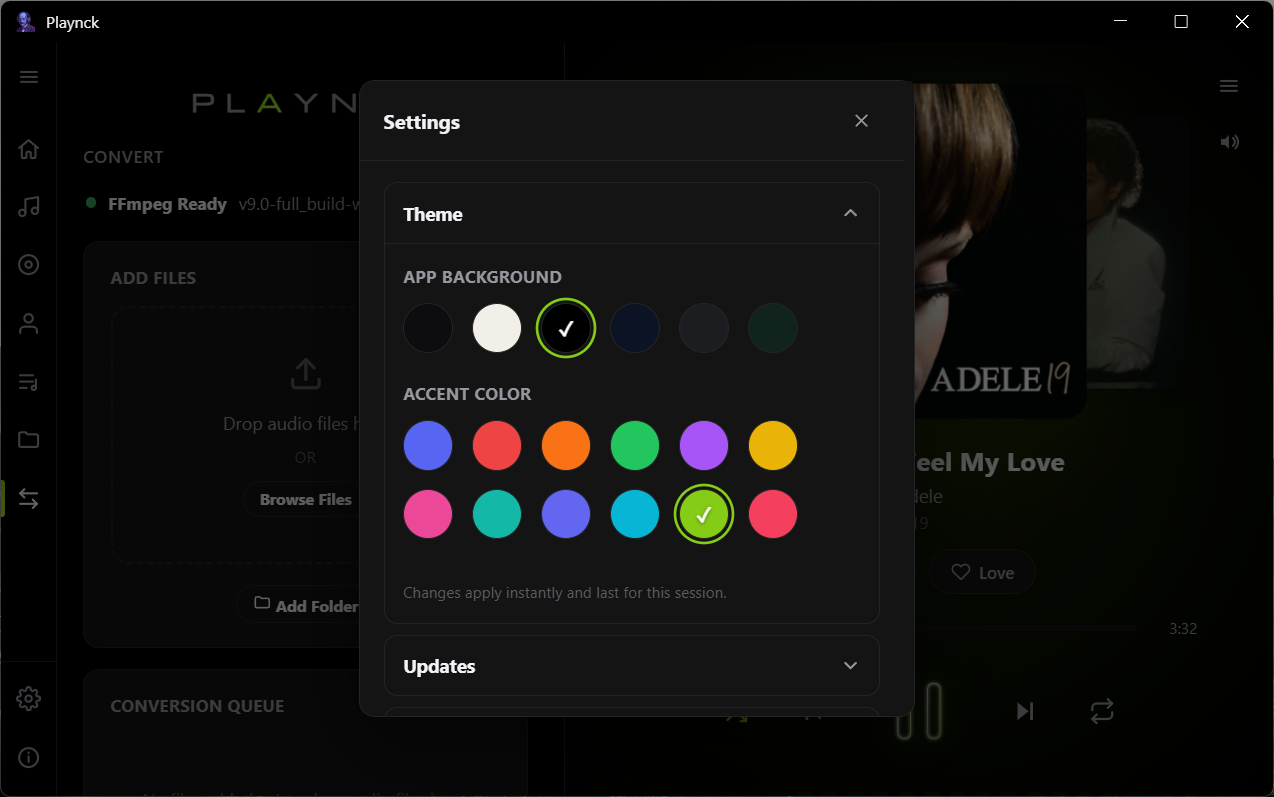
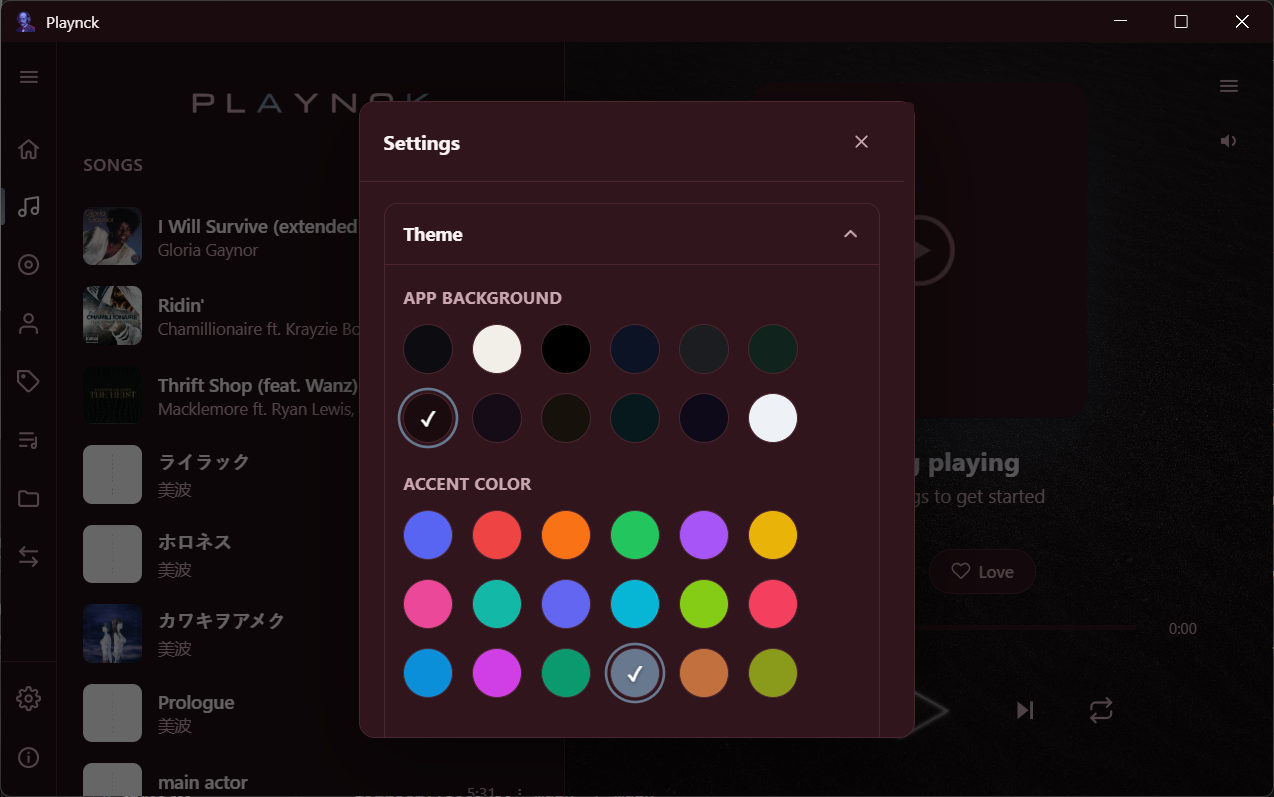
more shots

diff --git a/script/theme.js b/script/theme.js
@@ -85,6 +85,91 @@ const THEME_BG = {
       "--text-faint": "#6f8d7c",
     },
   },
+  burgundy: {
+    label: "Burgundy Wine",
+    swatch: "#190b0e",
+    vars: {
+      "--bg": "#190b0e",
+      "--panel": "#210f14",
+      "--elevated": "#30151c",
+      "--elevated-hover": "#3f1c25",
+      "--border": "#4b252f",
+      "--text": "#f9f1f3",
+      "--text-dim": "#c9a6af",
+      "--text-faint": "#90646f",
+    },
+  },
+  plum: {
+    label: "Plum Violet",
+    swatch: "#150c17",
+    vars: {
+      "--bg": "#150c17",
+      "--panel": "#1c111f",
+      "--elevated": "#28182d",
+      "--elevated-hover": "#35203c",
+      "--border": "#402947",
+      "--text": "#f6f2f8",
+      "--text-dim": "#c1a6c9",
+      "--text-faint": "#856490",
+    },
+  },
+  espresso: {
+    label: "Espresso Brown",
+    swatch: "#17110c",
+    vars: {
+      "--bg": "#17110c",
+      "--panel": "#1f1711",
+      "--elevated": "#2d2118",
+      "--elevated-hover": "#3c2c20",
+      "--border": "#473629",
+      "--text": "#f8f4f2",
+      "--text-dim": "#c9b5a6",
+      "--text-faint": "#907764",
+    },
+  },
+  ocean: {
+    label: "Deep Ocean Teal",
+    swatch: "#07191d",
+    vars: {
+      "--bg": "#07191d",
+      "--panel": "#0a2227",
+      "--elevated": "#0e3037",
+      "--elevated-hover": "#124049",
+      "--border": "#1a4c56",
+      "--text": "#eff9fb",
+      "--text-dim": "#a6c3c9",
+      "--text-faint": "#648990",
+    },
+  },
+  twilight: {
+    label: "Twilight Indigo",
+    swatch: "#0e0a1a",
+    vars: {
+      "--bg": "#0e0a1a",
+      "--panel": "#130d23",
+      "--elevated": "#1b1332",
+      "--elevated-hover": "#241943",
+      "--border": "#2d214f",
+      "--text": "#f3f0f9",
+      "--text-dim": "#afa6c9",
+      "--text-faint": "#6f6490",
+    },
+  },
+  cloud: {
+    label: "Cool Cloud",
+    swatch: "#eef2f7",
+    onLight: true,
+    vars: {
+      "--bg": "#eef2f7",
+      "--panel": "#f9fbfd",
+      "--elevated": "#e3e9f1",
+      "--elevated-hover": "#d8e0eb",
+      "--border": "#cfd8e4",
+      "--text": "#1a2029",
+      "--text-dim": "#566272",
+      "--text-faint": "#8e9aab",
+    },
+  },
 };
 
 const THEME_ACCENT = {
@@ -100,6 +185,12 @@ const THEME_ACCENT = {
   cyan: { label: "Cyan", a1: "#06b6d4", a2: "#22d3ee", rgb: "6,182,212" },
   lime: { label: "Lime", a1: "#84cc16", a2: "#a3e635", rgb: "132,204,22" },
   rose: { label: "Rose", a1: "#f43f5e", a2: "#fb7185", rgb: "244,63,94" },
+  sky: { label: "Sky", a1: "#0a8fd8", a2: "#38b6f5", rgb: "10,143,216" },
+  fuchsia: { label: "Fuchsia", a1: "#d03fe6", a2: "#e879f9", rgb: "208,63,230" },
+  emerald: { label: "Emerald", a1: "#0a9a6e", a2: "#2fd3a0", rgb: "10,154,110" },
+  slate: { label: "Slate", a1: "#68788f", a2: "#94a3b8", rgb: "104,120,143" },
+  copper: { label: "Copper", a1: "#c2703d", a2: "#e19a6a", rgb: "194,112,61" },
+  olive: { label: "Olive", a1: "#8a9a1a", a2: "#b4c43a", rgb: "138,154,26" },
 };
 
 function applyTheme() {

diff --git a/theme-boot.js b/theme-boot.js
@@ -61,6 +61,66 @@
         "--text-dim": "#a7c0b0",
         "--text-faint": "#6f8d7c",
       },
+      burgundy: {
+        "--bg": "#190b0e",
+        "--panel": "#210f14",
+        "--elevated": "#30151c",
+        "--elevated-hover": "#3f1c25",
+        "--border": "#4b252f",
+        "--text": "#f9f1f3",
+        "--text-dim": "#c9a6af",
+        "--text-faint": "#90646f",
+      },
+      plum: {
+        "--bg": "#150c17",
+        "--panel": "#1c111f",
+        "--elevated": "#28182d",
+        "--elevated-hover": "#35203c",
+        "--border": "#402947",
+        "--text": "#f6f2f8",
+        "--text-dim": "#c1a6c9",
+        "--text-faint": "#856490",
+      },
+      espresso: {
+        "--bg": "#17110c",
+        "--panel": "#1f1711",
+        "--elevated": "#2d2118",
+        "--elevated-hover": "#3c2c20",
+        "--border": "#473629",
+        "--text": "#f8f4f2",
+        "--text-dim": "#c9b5a6",
+        "--text-faint": "#907764",
+      },
+      ocean: {
+        "--bg": "#07191d",
+        "--panel": "#0a2227",
+        "--elevated": "#0e3037",
+        "--elevated-hover": "#124049",
+        "--border": "#1a4c56",
+        "--text": "#eff9fb",
+        "--text-dim": "#a6c3c9",
+        "--text-faint": "#648990",
+      },
+      twilight: {
+        "--bg": "#0e0a1a",
+        "--panel": "#130d23",
+        "--elevated": "#1b1332",
+        "--elevated-hover": "#241943",
+        "--border": "#2d214f",
+        "--text": "#f3f0f9",
+        "--text-dim": "#afa6c9",
+        "--text-faint": "#6f6490",
+      },
+      cloud: {
+        "--bg": "#eef2f7",
+        "--panel": "#f9fbfd",
+        "--elevated": "#e3e9f1",
+        "--elevated-hover": "#d8e0eb",
+        "--border": "#cfd8e4",
+        "--text": "#1a2029",
+        "--text-dim": "#566272",
+        "--text-faint": "#8e9aab",
+      },
     };
     var THEME_ACCENT = {
       blue: { a1: "#5865f2", a2: "#8a5cf6", rgb: "88,101,242" },
@@ -75,6 +135,12 @@
       cyan: { a1: "#06b6d4", a2: "#22d3ee", rgb: "6,182,212" },
       lime: { a1: "#84cc16", a2: "#a3e635", rgb: "132,204,22" },
       rose: { a1: "#f43f5e", a2: "#fb7185", rgb: "244,63,94" },
+      sky: { a1: "#0a8fd8", a2: "#38b6f5", rgb: "10,143,216" },
+      fuchsia: { a1: "#d03fe6", a2: "#e879f9", rgb: "208,63,230" },
+      emerald: { a1: "#0a9a6e", a2: "#2fd3a0", rgb: "10,154,110" },
+      slate: { a1: "#68788f", a2: "#94a3b8", rgb: "104,120,143" },
+      copper: { a1: "#c2703d", a2: "#e19a6a", rgb: "194,112,61" },
+      olive: { a1: "#8a9a1a", a2: "#b4c43a", rgb: "138,154,26" },
     };
     var raw = localStorage.getItem("playnck-theme-cache");
     if (!raw) return;

diff --git a/script/i18n.js b/script/i18n.js
@@ -401,6 +401,12 @@ const I18N = {
     "theme.bg.midnight": "Deep Midnight Blue",
     "theme.bg.graphite": "Graphite Gray",
     "theme.bg.forest": "Forest Green",
+    "theme.bg.burgundy": "Burgundy Wine",
+    "theme.bg.plum": "Plum Violet",
+    "theme.bg.espresso": "Espresso Brown",
+    "theme.bg.ocean": "Deep Ocean Teal",
+    "theme.bg.twilight": "Twilight Indigo",
+    "theme.bg.cloud": "Cool Cloud",
     "theme.accent.blue": "Blue",
     "theme.accent.red": "Red",
     "theme.accent.orange": "Orange",
@@ -413,6 +419,12 @@ const I18N = {
     "theme.accent.cyan": "Cyan",
     "theme.accent.lime": "Lime",
     "theme.accent.rose": "Rose",
+    "theme.accent.sky": "Sky",
+    "theme.accent.fuchsia": "Fuchsia",
+    "theme.accent.emerald": "Emerald",
+    "theme.accent.slate": "Slate",
+    "theme.accent.copper": "Copper",
+    "theme.accent.olive": "Olive",
 
     "convert.desktopOnly": "The Convert tab needs the desktop app.",
     "convert.checkingFFmpeg": "Checking for FFmpeg…",
@@ -896,6 +908,12 @@ const I18N = {
     "theme.bg.midnight": "Bleu nuit profond",
     "theme.bg.graphite": "Gris graphite",
     "theme.bg.forest": "Vert forêt",
+    "theme.bg.burgundy": "Bordeaux",
+    "theme.bg.plum": "Violet prune",
+    "theme.bg.espresso": "Brun espresso",
+    "theme.bg.ocean": "Sarcelle océan profond",
+    "theme.bg.twilight": "Indigo crépuscule",
+    "theme.bg.cloud": "Nuage froid",
     "theme.accent.blue": "Bleu",
     "theme.accent.red": "Rouge",
     "theme.accent.orange": "Orange",
@@ -908,6 +926,12 @@ const I18N = {
     "theme.accent.cyan": "Cyan",
     "theme.accent.lime": "Citron vert",
     "theme.accent.rose": "Fuchsia",
+    "theme.accent.sky": "Bleu ciel",
+    "theme.accent.fuchsia": "Magenta",
+    "theme.accent.emerald": "Émeraude",
+    "theme.accent.slate": "Ardoise",
+    "theme.accent.copper": "Cuivre",
+    "theme.accent.olive": "Olive",
   },
 };
 

diff --git a/script/settings.js b/script/settings.js
@@ -292,7 +292,7 @@ function openSettingsModal() {
   const bgSwatches = Object.entries(THEME_BG)
     .map(
       ([key, cfg]) =>
-        `<button class="swatch-btn bg-swatch${key === "light" ? " on-light" : ""}${state.theme.bg === key ? " active" : ""}" data-bg="${key}" style="background:${cfg.swatch}" title="${escapeHTML(themeBgLabel(key))}"></button>`,
+        `<button class="swatch-btn bg-swatch${key === "light" || cfg.onLight ? " on-light" : ""}${state.theme.bg === key ? " active" : ""}" data-bg="${key}" style="background:${cfg.swatch}" title="${escapeHTML(themeBgLabel(key))}"></button>`,
     )
     .join("");
   const accentSwatches = Object.entries(THEME_ACCENT)

diff --git a/README.md b/README.md
@@ -4,7 +4,7 @@
 
 **A local-first desktop music player for Windows and Linux that plays the files you already own, writes real tags back into them, and never asks you to sign in.**
 
-Built with Electron. Writes real metadata back into your files. Fingerprints and auto-tags unsorted tracks. Ten-band equalizer. Synced lyrics. Seventy-two theme combinations. No cloud, no account, no subscription.
+Built with Electron. Writes real metadata back into your files. Fingerprints and auto-tags unsorted tracks. Ten-band equalizer. Synced lyrics. Two hundred sixteen theme combinations. No cloud, no account, no subscription.
 
 [![Latest Release](https://img.shields.io/github/v/release/FakharArrazi/Project-Playnck?label=latest%20release&color=6C5CE7)](https://github.com/FakharArrazi/Project-Playnck/releases/latest)
 [![Downloads](https://img.shields.io/github/downloads/FakharArrazi/Project-Playnck/total?color=00b894)](https://github.com/FakharArrazi/Project-Playnck/releases)
@@ -85,7 +85,7 @@ Your files stay as files. Corrections you make (a fixed title, a properly spelle
 
 **Conversion and personalization**
 - Batch conversion to MP3, AAC, Opus, FLAC, ALAC, or WAV, with per-format bitrate, compression, or bit-depth controls
-- Six background themes crossed with twelve accent colors for seventy-two total combinations, plus a custom Now Playing background image
+- Twelve background themes crossed with eighteen accent colors for two hundred sixteen total combinations, plus a custom Now Playing background image
 - A full English and French interface, with a JSON-based backup and restore for your whole library
 
 ## How It Works
@@ -377,7 +377,7 @@ Alongside it, a gapless playback toggle smooths the transition between tracks wi
 
 ### Personalization and Themes
 
-Playnck's appearance is built from six background shades, from a near-black Pitch Black through a light cream theme to a Deep Midnight Blue and a Forest Green, crossed with twelve accent colors, for seventy-two combinations in total. Every combination previews instantly as you click through the swatches and is remembered the next time you open the app; on Windows, the title bar itself recolors to match whatever you choose.
+Playnck's appearance is built from twelve background shades, from a near-black Pitch Black through a light cream theme and a cool light theme to a Deep Midnight Blue, a Forest Green, Burgundy Wine, Plum Violet, Espresso Brown, Deep Ocean Teal and Twilight Indigo, crossed with eighteen accent colors, for two hundred sixteen combinations in total. Every combination previews instantly as you click through the swatches and is remembered the next time you open the app; on Windows, the title bar itself recolors to match whatever you choose.
 
 Separately, under Settings > Player, you can set your own image as the Now Playing background and control how much blur sits over it with a slider from 0 to 20 pixels, adjust how strongly the audio visualizer reacts to the music, and show or hide the audio information line (sample rate, bitrate, and format) beneath the artist and album.
 
